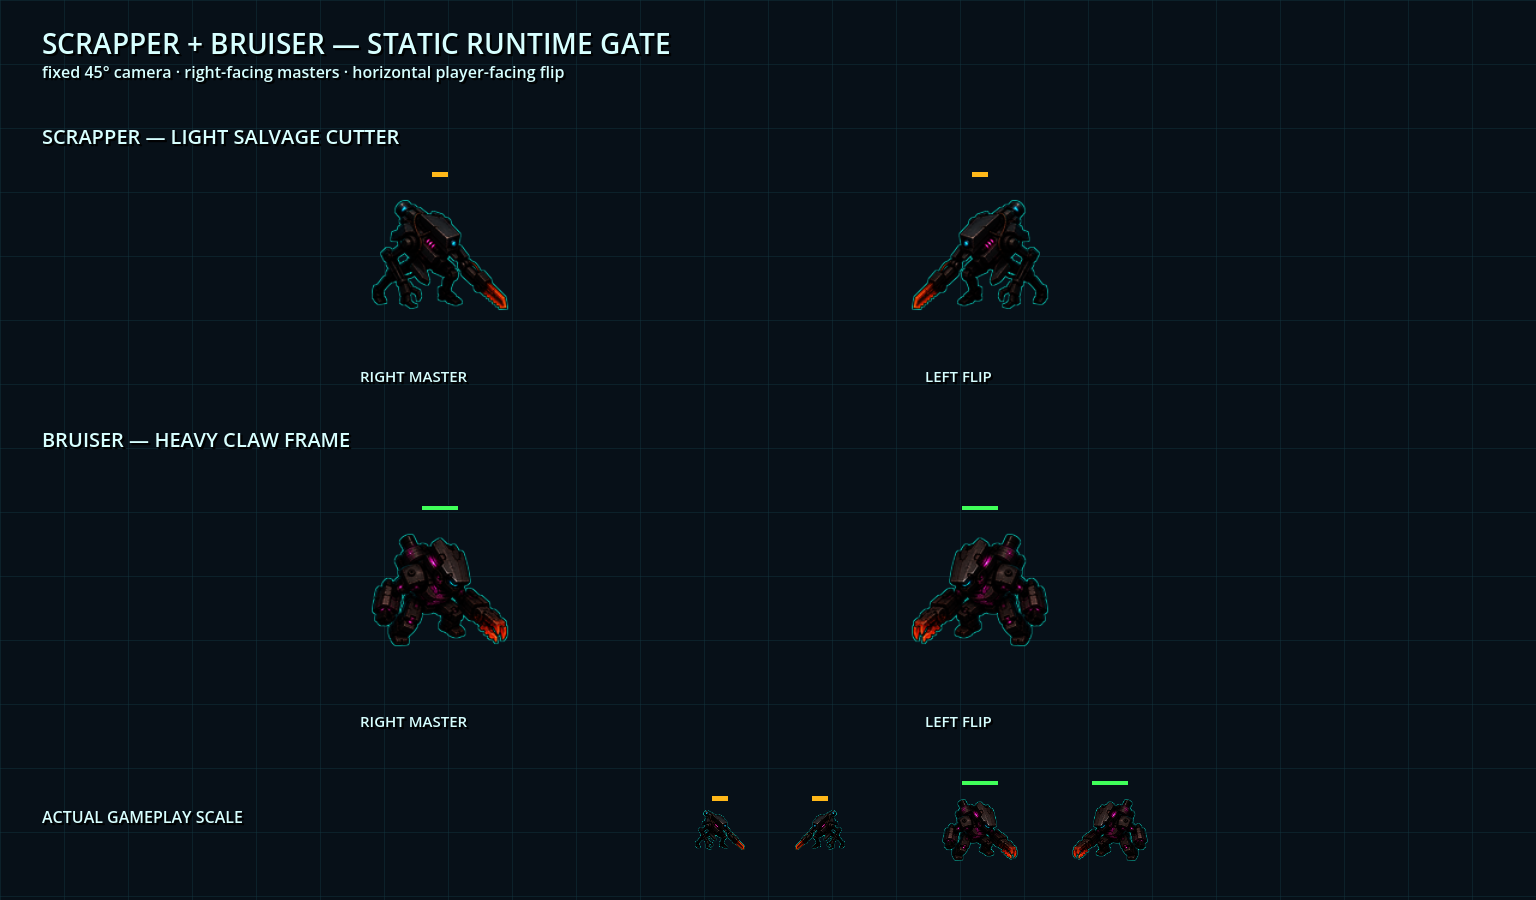
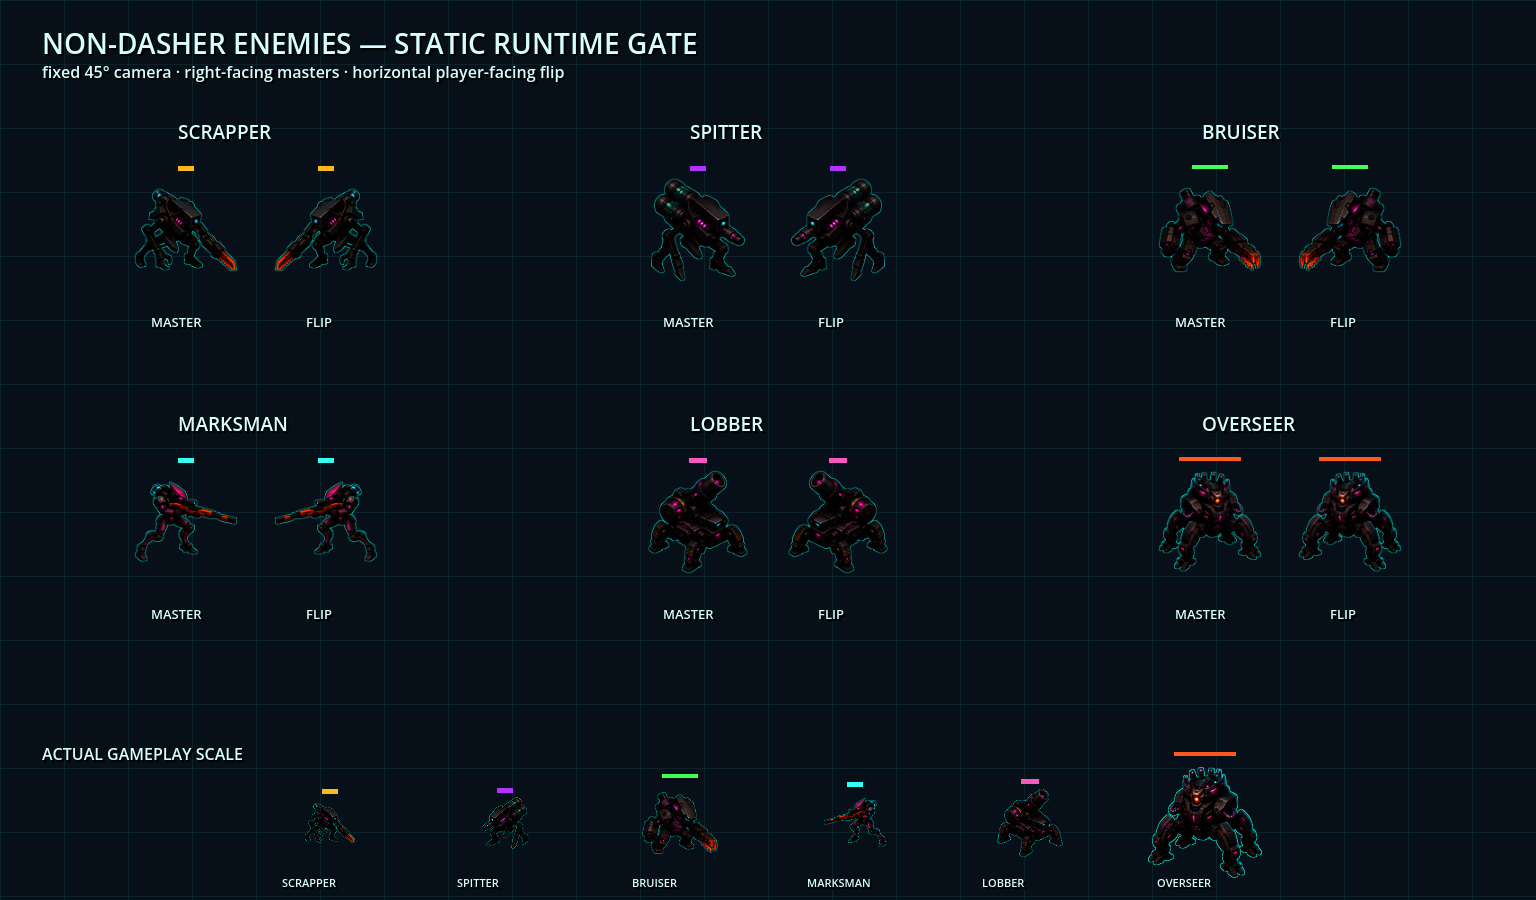
feat: complete non-Dasher enemy art

diff --git a/scripts/art/prepare_static_enemy_sprite.py b/scripts/art/prepare_static_enemy_sprite.py
@@ -18,9 +18,14 @@ def prepare_sprite(
     canvas_size: int = 128,
     padding: int = 8,
     outline_width: int = 1,
+    alpha_threshold: int = 24,
 ) -> Image.Image:
     rgba = source.convert("RGBA")
-    bbox = rgba.getchannel("A").getbbox()
+    cleaned_alpha = rgba.getchannel("A").point(
+        lambda value: 0 if value < alpha_threshold else value
+    )
+    rgba.putalpha(cleaned_alpha)
+    bbox = cleaned_alpha.getbbox()
     if bbox is None:
         raise RuntimeError("source has no visible subject")
     subject = rgba.crop(bbox)
@@ -51,6 +56,9 @@ def validate_sprite(image: Image.Image, canvas_size: int, safe_padding: int) -> 
         raise RuntimeError("runtime sprite is empty")
     if bbox[0] < safe_padding or bbox[1] < safe_padding or bbox[2] > canvas_size - safe_padding or bbox[3] > canvas_size - safe_padding:
         raise RuntimeError(f"runtime sprite violates safe padding: {bbox}")
+    visible_pixels = sum(1 for value in alpha.get_flattened_data() if value > 0)
+    if visible_pixels >= canvas_size * canvas_size * 0.72:
+        raise RuntimeError("runtime sprite retained too much background alpha")
     for corner in ((0, 0), (canvas_size - 1, 0), (0, canvas_size - 1), (canvas_size - 1, canvas_size - 1)):
         if alpha.getpixel(corner) != 0:
             raise RuntimeError("runtime sprite retained an opaque corner")
@@ -63,13 +71,20 @@ def parse_args() -> argparse.Namespace:
     parser.add_argument("--canvas-size", type=int, default=128)
     parser.add_argument("--padding", type=int, default=8)
     parser.add_argument("--outline-width", type=int, default=1)
+    parser.add_argument("--alpha-threshold", type=int, default=24)
     return parser.parse_args()
 
 
 def main() -> int:
     args = parse_args()
     with Image.open(args.input) as source:
-        result = prepare_sprite(source, args.canvas_size, args.padding, args.outline_width)
+        result = prepare_sprite(
+            source,
+            args.canvas_size,
+            args.padding,
+            args.outline_width,
+            args.alpha_threshold,
+        )
     args.output.parent.mkdir(parents=True, exist_ok=True)
     result.save(args.output)
     print(f"STATIC ENEMY PASS: {args.output} {result.width}x{result.height} RGBA")

diff --git a/scripts/tests/test_prepare_static_enemy_sprite.py b/scripts/tests/test_prepare_static_enemy_sprite.py
@@ -13,7 +13,7 @@ class PrepareStaticEnemySpriteTests(unittest.TestCase):
     def test_crop_scale_outline_and_padding(self) -> None:
         source = Image.new("RGBA", (300, 220), (0, 0, 0, 0))
         draw = ImageDraw.Draw(source)
-        draw.rectangle((90, 40, 240, 190), fill=(60, 45, 70, 255))
+        draw.rectangle((90, 40, 210, 190), fill=(60, 45, 70, 255))
 
         result = prepare_sprite(source)
 
@@ -22,7 +22,14 @@ class PrepareStaticEnemySpriteTests(unittest.TestCase):
         self.assertEqual(result.getpixel((0, 0))[3], 0)
 
     def test_production_static_enemies_are_bounded(self) -> None:
-        for name in ("enemy_scrapper.png", "enemy_bruiser.png"):
+        for name in (
+            "enemy_scrapper.png",
+            "enemy_bruiser.png",
+            "enemy_spitter.png",
+            "enemy_marksman.png",
+            "enemy_lobber.png",
+            "enemy_overseer.png",
+        ):
             with Image.open(ROOT / "assets/art/actors/enemies" / name) as image:
                 validate_sprite(image.convert("RGBA"), 128, 7)
 

diff --git a/docs/art/reviews/five-minute-overdrive-art-audit-2026-08-18.md b/docs/art/reviews/five-minute-overdrive-art-audit-2026-08-18.md
@@ -4,7 +4,7 @@
 
 分支：`5分钟超载`
 
-结论：核心战斗美术可进入玩法验收；未完成项被明确限制在后续敌人动画与项目级授权审查，不伪装为最终完成。
+结论：本轮核心战斗美术已完成玩法验收；未完成项被明确限制在非承诺的后续动画扩展、最低目标硬件验证与项目级授权审查，不伪装为发行终版。
 
 ## 验收矩阵
 
@@ -14,7 +14,7 @@
 | 玩家身体与枪械 | 通过 | 源模型保持身体和步枪为独立 3D 对象；运行图集保留同一深度缓冲中的遮挡与握持关系 | 禁止重新引入屏幕空间独立枪旋转 |
 | 玩家透明度 | 通过 | 主体可见像素保持高不透明度，透明区域只存在于轮廓外 | 烘焙指标与真实战斗截图 |
 | Dasher A/B | 通过 | 两种外形均有 3 帧移动及预备、突击、恢复，共 6 帧；水平翻转持续面向玩家 | `EnemyDasherArtTest` |
-| 其他敌人 | 部分通过 | Scrapper、Bruiser 已换正式单帧母版并面向玩家；其余四类仍为程序占位 | 不标记为动画完成 |
+| 其他敌人 | 通过 | Scrapper、Spitter、Bruiser、Marksman、Lobber、Overseer 均使用正式单帧母版并水平翻转面向玩家；独立 Boss 逻辑保持不变 | `EnemyStaticArtTest`、`BossTest` |
 | 战斗特效 | 通过 | 能量、方向和冲击分别使用青、品红、橙；上限固定，无每发 GPU 粒子节点 | `CombatFeedbackTest`、`PerformanceTest` |
 | 场地 | 通过 | 工业网格由约 49,923 个逐格命令降至 496 个保留绘制命令 | 900 命令上限 |
 | HUD | 通过 | 顶部卡片保持不透明；超载胶囊在充能/激活状态具有独立配色并响应多种分辨率 | `UITest` |
@@ -22,15 +22,15 @@
 
 ## 运行资源预算
 
-生产角色代码只引用以下七张运行纹理：
+生产角色代码只引用以下十一张运行纹理：
 
 - 玩家 READY：1280×384 RGBA，1 帧动作、120 个方向；
 - 玩家 MOVE：1280×2304 RGBA，6 帧动作、120 个方向；
 - 玩家 FIRE：1280×2304 RGBA，6 帧动作、120 个方向；
 - Dasher A/B：每张 384×256 RGBA，3×2 动作格。
-- Scrapper/Bruiser：每张 128×128 RGBA，单帧朝右母版并在运行时水平翻转。
+- 六类非 Dasher 敌人：每张 128×128 RGBA，单帧朝右母版并在运行时水平翻转。
 
-玩家三张图集解压后的理论 RGBA 占用为 25,559,040 字节（24.38 MiB），低于 32 MiB 门禁。每个玩家帧已经是实际显示所需的 64×64 像素，因此不应再降低分辨率。Dasher 两张图集共 786,432 字节（0.75 MiB），相较原 12.00 MiB 降低 93.75%。Scrapper/Bruiser 两张静态纹理共 131,072 字节（0.125 MiB）。七张生产角色纹理解压后合计 25.25 MiB。
+玩家三张图集解压后的理论 RGBA 占用为 25,559,040 字节（24.38 MiB），低于 32 MiB 门禁。每个玩家帧已经是实际显示所需的 64×64 像素，因此不应再降低分辨率。Dasher 两张图集共 786,432 字节（0.75 MiB），相较原 12.00 MiB 降低 93.75%。六张静态敌人纹理共 393,216 字节（0.375 MiB）。十一张生产角色纹理解压后合计 25.50 MiB。
 
 旧的 `player_turnaround_atlas.png`、`player_weapon.png` 和 `technical_previews` 不被生产玩家代码加载。它们保留为源流程、历史比较或技术验证证据，不计入上述运行时常驻预算。
 
@@ -43,10 +43,12 @@
 5. **特效节点膨胀**：移除每发超载弹的 `GPUParticles2D`，电弧由约 192 次分段绘制合并为 2 条折线，所有短时记录维持固定上限。
 6. **场地绘制过重**：将逐格地面替换为分层大网格、服务线和确定性磨损标记，保留方向感但显著降低绘制命令。
 7. **LOD 对比不可复现**：候选生成器现在同时生成 128/192/256/512 像素版本，比较板不再把当前 128 像素运行图误标为 512 像素参考。
+8. **其余敌人仍是程序色块**：六类非 Dasher 敌人均接入 45 度单帧母版；静态图打包器先清理低 alpha 色键噪点，避免描边把噪点扩张为矩形。
+9. **美术节点干扰 AI 编队**：近战环绕槽位不再读取全局 `instance_id`，改用只随敌人生成递增的内部序号；增加 Sprite 或 Material 不会再改变移动轨迹。
 
 ## 明确的剩余工作
 
-- Scrapper 与 Bruiser 已满足“暂时一张、可水平翻转”的范围但尚无动作。Spitter、Marksman、Lobber 和 Overseer 仍需先制作单帧正式母版，再按优先级决定是否扩展动作。
+- 六类非 Dasher 敌人已满足“暂时一张、可水平翻转”的当前范围；除 Dasher 外的新增移动或攻击动作属于后续扩展，不在本轮承诺内。
 - 玩家目前是方向离散图集，不是运行时 3D 骨骼角色；3 度采样已足够平滑，但新增武器或换装将需要重新烘焙相关动作。
 - 当前通过的是视觉与玩法验收，不等同于最终发行授权。项目级素材来源和许可证清单仍需单独审核。
 - 性能门禁覆盖资源尺寸、绘制命令、节点数量和确定性高密度场景；正式发行前仍应在最低目标硬件上记录帧时间与显存峰值。
@@ -68,12 +70,12 @@
 
 ## 最终验证快照
 
-- Godot：50 个测试套件、91,785 次断言全部通过；
+- Godot：50 个测试套件、91,836 次断言全部通过；
 - Python：53 个资产管线与 manifest 测试全部通过；
 - 真实 Vulkan：7 个确定性美术渲染门禁全部通过；
 - 零缓存复现：临时 fresh clone 先经 Godot `--import`，随后同样通过 50 套测试与 7 项真实渲染；
-- 高密度基线：1536×900、120 帧预热、180 帧采样，平均 11.336 ms、P95 12.155 ms、最大 210 draw calls；
-- 资源：玩家、Dasher、Scrapper、Bruiser 生产纹理解压后合计 25.25 MiB；
+- 高密度基线：1536×900、120 帧预热、180 帧采样，平均 10.935 ms、P95 13.078 ms、最大 210 draw calls；
+- 资源：玩家、Dasher 与六类静态敌人生产纹理解压后合计 25.50 MiB；
 - Git：`git diff --check` 通过，完成项均以独立本地提交记录。
 
 该快照证明本分支当前状态通过自动化与本机视觉门禁，不替代最低目标硬件测试，也不将 `license_review_state: pending` 提升为发行授权。

diff --git a/docs/art/reviews/characters-combat-enemy-static-runtime-v1.md b/docs/art/reviews/characters-combat-enemy-static-runtime-v1.md
@@ -1,4 +1,4 @@
-# Scrapper and Bruiser Static Runtime v1 Review
+# Non-Dasher Enemy Static Runtime v1 Review
 
 Date: 2026-08-18
 
@@ -6,36 +6,45 @@ Review state: gameplay-approved
 
 ## Decision
 
-Approve one right-facing static master each for Scrapper and Bruiser. This removes
-the obvious red and purple placeholder squares while respecting the approved
-single-frame scope for non-Dasher enemies. Horizontal flipping keeps both units
-facing the player; no unsupported rotation or invented animation is added.
+Approve one right-facing static master for Scrapper, Spitter, Bruiser, Marksman,
+Lobber, and Overseer. This completes the approved single-frame scope for every
+non-Dasher enemy. Horizontal flipping keeps each silhouette facing the player;
+no unsupported full rotation or invented locomotion is added.
 
 ## Identity and scale
 
-- Scrapper is a small, fragile, improvised salvage drone with thin limbs, one cyan
-  sensor, and a short orange cutter. Its 128px canvas displays at 0.44 scale.
-- Bruiser is a wide heavy frame with thick asymmetric armor, a magenta core, and
-  an orange claw. Its 128px canvas displays at 0.66 scale.
-- Both retain an opaque body, transparent exterior, one-runtime-pixel cyan alpha
-  outline, linear filtering, independent hit flash, and health/status bars above
-  the silhouette.
+- Scrapper: small salvage cutter, 0.44 runtime scale.
+- Spitter: light canister drone with a short acid nozzle, 0.45 scale.
+- Bruiser: wide heavy claw frame, 0.66 scale.
+- Marksman: lean biped with a long orange rail rifle, 0.55 scale.
+- Lobber: squat four-legged mortar chassis, 0.60 scale.
+- Overseer: crowned command machine, 1.00 legacy-enemy scale and 1.25 independent-Boss scale.
+
+All six use a bounded 128px RGBA canvas, opaque subject, transparent exterior,
+one-runtime-pixel cyan alpha outline, linear filtering, independent hit flash,
+and health/status bars above the silhouette. The independent Overseer Boss keeps
+its own collision, attacks, entrance reveal, phases, health contract, and cue rings.
 
 ## Gameplay invariants
 
-Scrapper retains a 14-pixel collision radius and 8 contact damage. Bruiser retains
-a 24-pixel collision radius and 18 contact damage. Speed, health, drops, attack
-timing, AI, groups, collision masks, and wave behavior are unchanged.
+The integration changes presentation only. Collision radii and contact damage
+remain 14/8 (Scrapper), 14/5 (Spitter), 24/18 (Bruiser), 14/5 (Marksman),
+17/8 (Lobber), and 40/24 (legacy Overseer). The independent Boss retains its
+56px collision radius and all existing combat contracts.
+
+## Pipeline hardening
+
+The deterministic packer now clears source alpha below 24 before measuring the
+subject. This prevents tiny low-alpha chroma noise from being expanded into a
+cyan rectangle by outline dilation. Validation also rejects sprites whose visible
+alpha occupies 72% or more of the runtime canvas.
 
 ## Evidence
 
-- isolated size and flip board:
-  `docs/art/previews/characters-combat/enemy-static-runtime-v1.png`;
-- high-density combat:
-  `docs/art/previews/characters-combat/art-stress-combat-runtime-v1.png`;
-- runtime contract: `EnemyStaticArtTest`, 24 assertions;
+- six-identity size and flip board: `docs/art/previews/characters-combat/enemy-static-runtime-v1.png`;
+- high-density combat: `docs/art/previews/characters-combat/art-stress-combat-runtime-v1.png`;
+- runtime contract: `EnemyStaticArtTest`, 72 assertions, plus `BossTest`;
 - deterministic packer: `scripts/art/prepare_static_enemy_sprite.py`.
 
-Spitter, Marksman, Lobber, and Overseer remain procedural single-frame visuals and
-are not presented as finished character art. Project-level license review remains
-pending for the generated Scrapper and Bruiser sources.
+Project-level license review remains pending for generated sources. Additional
+enemy animation is a future expansion, not part of the approved one-frame scope.
